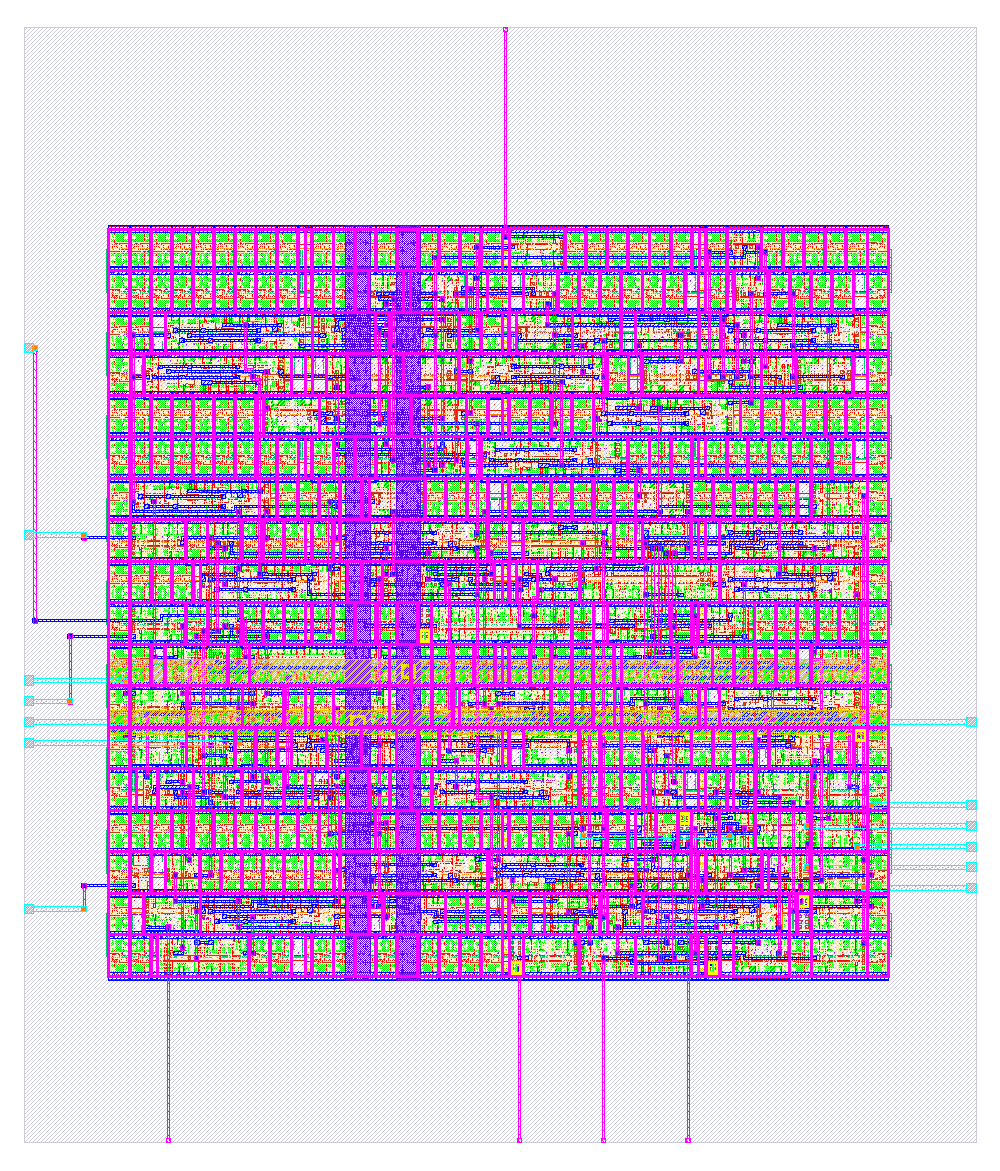
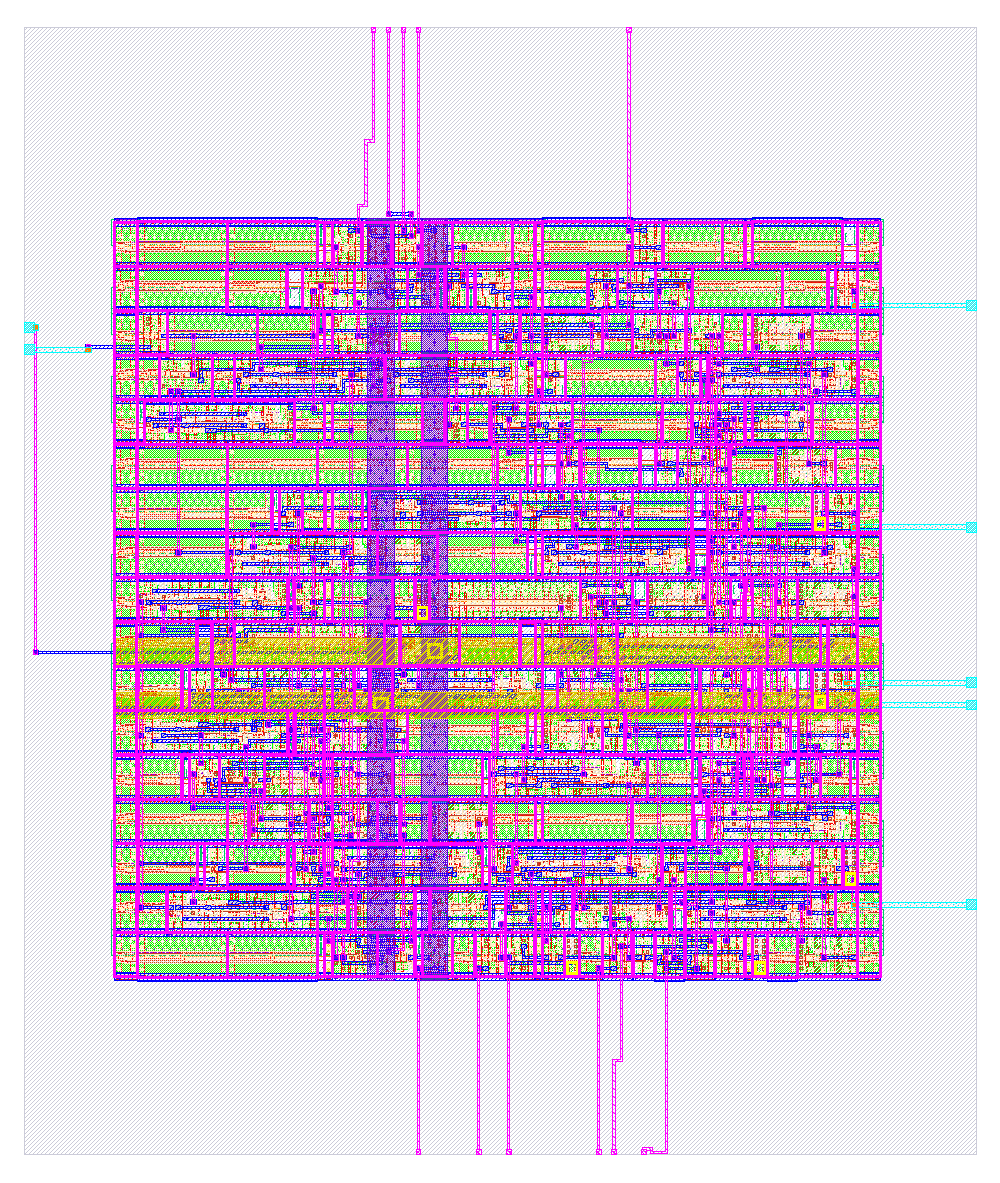
Lab 05: numbers from solutions/elevator.sv, and Part 8 arithmetic that adds up
Reran the lab on solutions/elevator.sv (skeleton numbers unchanged:
43 cells, 382.87 µm², 7 flops, 46.08 %):

- make synth: 80 cells, 766.99 µm², 17 flops, 55.63 % (was 76, 765.73,
  55.72 %). -nofsm: 80 cells, 754.47 µm², 15 flops, so two fewer flops
  and two more gates for a 1.6 % smaller design (was 79 / 756.98 / five
  more gates / 1.1 %). The RTL view is still 6503 x 1566 pt; the gate
  view is 883 x 9455 pt (was 9018), also quoted in Lab 02.
- make harden TAG=v1, 80 stages: 58.31 x 69.03 µm die (4025.14 µm²),
  core 2169.58, setup +12.39 ns, hold +0.128 ns, wirelength 1816,
  159 standard-cell instances, 325 instances in all, GDS 406,588 bytes
  (397 KB), run directory about 90 MB. All signoff counts are still 0.
  The render in docs/assets/img is replaced with this run's.
- Part 8's first question now adds up: 159 - 80 = 79 = 28 taps + 4
  clock-tree cells + 40 timing-repair buffers (5 input + 11 output +
  3 slew/fanout + 21 hold) + 6 diodes, plus one cell because LibreLane's
  own Yosys run builds 81 cells where make synth builds 80 (its
  stat.rpt says so). The log excerpt shows the lines those counts come
  from, and the timing-repair figure is the metrics.json class count
  (40 cells, 314.05 µm²) rather than an unexplained 32. The cell table
  is recounted from final/nl/elevator.nl.v.
- Setup answer: about 7.6 ns, roughly 130 MHz.

The 59 s / 525 MB wall-clock figure came from a different netlist on a
[…]

diff --git a/docs/labs/lab-05-elevator-overview.md b/docs/labs/lab-05-elevator-overview.md
@@ -18,7 +18,7 @@ Package: [`labs/lab-05-elevator/`](https://github.com/uoftasic/dd103/tree/main/l
   [From netlist to layout](../guide/from-gates-to-geometry.md).
 - Check your versions: `yosys -V` should say `Yosys 0.68` and `librelane --version` should say
   `LibreLane v3.1.0.dev3`.
-- Each LibreLane run directory is about 65 MB, so budget a few hundred megabytes of disk and
+- Each LibreLane run directory is about 90 MB, so budget a few hundred megabytes of disk and
   delete the run tags you no longer need.
 
 Start in the package directory:
@@ -295,13 +295,13 @@ What did the call queue, the timer and two more states cost in silicon?
    ```
    === elevator ===
 
-          76  765.734 cells
+          80  766.986 cells
            ...
           16  400.384   sky130_fd_sc_hd__dfrtp_1
            1   26.275   sky130_fd_sc_hd__dfstp_2
            ...
-      Chip area for module '\elevator': 765.734400
-        of which used for sequential elements: 426.659200 (55.72%)
+      Chip area for module '\elevator': 766.985600
+        of which used for sequential elements: 426.659200 (55.63%)
    ```
 
 3. Compare with the skeleton's numbers below. (If you want to reproduce them, run the Yosys
@@ -309,10 +309,10 @@ What did the call queue, the timer and two more states cost in silicon?
 
 | | Skeleton (3 states) | Finished (5 states) |
 |---|---|---|
-| cells | 43 | 76 |
-| area | 382.87 µm² | 765.73 µm² |
+| cells | 43 | 80 |
+| area | 382.87 µm² | 766.99 µm² |
 | flip-flops | 7 | 17 |
-| sequential share | 46.08 % | 55.72 % |
+| sequential share | 46.08 % | 55.63 % |
 
 You should see that the finished design is roughly twice the size of the skeleton. Where did the
 ten extra flip-flops come from?
@@ -325,7 +325,7 @@ machine: Yosys makes the state register one-hot, with one bit per state, and you
 states to five. With `-nofsm`, which leaves the 3-bit state register alone (see Going further),
 the finished design has 15.
 
-The seventeen flops are 22 % of the cells but 55.72 % of the area. A `dfrtp_1` costs 25.02 µm²
+The seventeen flops are 21 % of the cells but 55.63 % of the area. A `dfrtp_1` costs 25.02 µm²
 and a `nand2_1` costs 3.75, so the state is the expensive part of the design. That is why
 engineers argue about minimizing states, and you now have a number of your own to argue with.
 
@@ -342,8 +342,8 @@ Which diagram of the finished design is worth drawing?
 You should see a wide strip (6503 × 1566 pt for the finished design) with your names on the
 wires, and five register boxes, one for each of your five multi-bit state elements.
 
-Don't run `show` on the gate netlist. On this design it comes out 883 × 9018 pt, a vertical
-ribbon ten times taller than it is wide with 76 unlabelled boxes in it. The gate view in
+Don't run `show` on the gate netlist. On this design it comes out 883 × 9455 pt, a vertical
+ribbon ten times taller than it is wide with 80 unlabelled boxes in it. The gate view in
 [Lab 02](../labs/lab-02-rtl-becomes-gates-overview.md) was readable only because it was a two-cell
 full adder. Once a design this size is mapped to cells, the useful way to look at it is as a
 layout, which you'll do in Part 9.
@@ -403,11 +403,12 @@ There are three things in it to notice:
 
    [00:48:11] INFO     Saving views to '/work/runs/v1/final'…
    [00:48:11] INFO     Flow complete.
-   Classic - Stage 80 - Report Manufacturability ━━━━━━━━━━━━━━━━━━━━ 80/80 0:00:57
+   Classic - Stage 80 - Report Manufacturability ━━━━━━━━━━━━━━━━━━━━ 80/80 0:02:13
    ```
 
-   On a 6-core laptop with 7.5 GB of RAM this took 59 seconds of wall-clock time and peaked at
-   525 MB. If yours takes noticeably longer, that means your design got bigger, not that
+   Our run of the reference design, in a container limited to 2 CPUs and 3 GB of RAM, took
+   2 min 15 s of wall-clock time and peaked at 652 MB, so on a laptop with more cores yours
+   should be quicker. If it takes noticeably longer, that means your design got bigger, not that
    anything is broken.
 
    A dozen `WARNING` lines follow. They are normal, and
@@ -440,13 +441,13 @@ Is the chip clean, and what is on it besides your logic?
    ```
 
    ```
-   design__die__area                      4553.88
-   design__core__area                     2499.9
-   design__instance__utilization          0.550551
-   timing__setup__ws                      11.664674889496723
-   timing__hold__ws                       0.10763004681033471
-   route__wirelength                      1989
-   design__instance__count__stdcell       148
+   design__die__area                      4025.14
+   design__core__area                     2169.58
+   design__instance__utilization          0.568051
+   timing__setup__ws                      12.392420773650056
+   timing__hold__ws                       0.12794571320118497
+   route__wirelength                      1816
+   design__instance__count__stdcell       159
    antenna__violating__nets               0
    magic__drc_error__count                0
    klayout__drc_error__count              0
@@ -486,63 +487,75 @@ Is the chip clean, and what is on it besides your logic?
 
 Three of the metrics need some explaining. Answer each question below from your own run.
 
-`design__instance__count__stdcell` is 148, where Yosys said 76. What are the other 72?
+`design__instance__count__stdcell` is 159, where Yosys said 80 in Part 5. What are the other 79?
 
 <details>
 <summary>Answer</summary>
 
-They are real cells that the flow added after synthesis: 30 well taps, a clock tree, hold-fix
-delay cells and antenna diodes. The table in the answer to the last of these three questions
-counts each kind, and the logs show what was inserted:
+Almost all of them are real cells that the flow added after synthesis: 28 well taps, a clock
+tree, timing-repair buffers and antenna diodes. The table in the answer to the last of these
+three questions counts each kind, and the logs show what was inserted:
 
 ```
+[INFO RSZ-0027] Inserted 5 sky130_fd_sc_hd__buf_2 input buffers.
+[INFO RSZ-0028] Inserted 11 sky130_fd_sc_hd__buf_2 output buffers.
+[INFO RSZ-0034] Found 1 slew violations.
+[INFO RSZ-0035] Found 1 fanout violations.
+[INFO RSZ-0038] Inserted 3 buffers in 2 nets.
 [INFO CTS-0018]     Created 3 clock buffers.
-[INFO RSZ-0046] Found 11 endpoints with hold violations.
-[INFO RSZ-0032] Inserted 14 hold buffers.
+[INFO CTS-0207]  Dummy loads inserted 1
+[INFO RSZ-0046] Found 15 endpoints with hold violations.
+[INFO RSZ-0032] Inserted 21 hold buffers.
 ```
 
-So the flow found eleven hold violations, none of which you wrote. A hold violation is data
+That makes 28 taps, 4 clock-tree cells, 40 timing-repair buffers (5 + 11 + 3 + 21) and 6
+diodes, 78 cells in all. The 79th was never added. LibreLane runs Yosys with its own synthesis
+script, and that run built 81 cells where `make synth` built 80, as
+`runs/v1/06-yosys-synthesis/reports/stat.rpt` shows.
+
+So the flow found fifteen hold violations, none of which you wrote. A hold violation is data
 arriving at a flip-flop too early: the previous stage was so fast that the new value overtook the
-clock edge. The fix is to slow the path down on purpose, which is why the layout
-contains 32 timing-repair buffers costing 320.31 µm². It's also why `timing__hold__ws` came out
-at +0.108 ns, only just positive, because positive by a small margin is what the resizer aims
-for.
+clock edge. The fix is to slow the path down on purpose, which is what the 21 hold buffers do.
+Together with the buffers on the inputs and outputs and the three that fixed the slew and fanout
+violations, they are the 40 timing-repair buffers in `metrics.json`, and they cost 314.05 µm².
+The hold fix is also why `timing__hold__ws` came out at +0.128 ns, only just positive, because
+positive by a small margin is what the resizer aims for.
 
 </details>
 
-`timing__setup__ws` is +11.66 ns on a 20 ns clock. Roughly how fast could this elevator run?
+`timing__setup__ws` is +12.39 ns on a 20 ns clock. Roughly how fast could this elevator run?
 
 <details>
 <summary>Answer</summary>
 
-Your longest path takes about 8.3 ns (20 − 11.66), so this elevator would run at roughly
-120 MHz. That leaves 11.66 ns of headroom it isn't using, which you could spend on more floors or
+Your longest path takes about 7.6 ns (20 − 12.39), so this elevator would run at roughly
+130 MHz. That leaves 12.39 ns of headroom it isn't using, which you could spend on more floors or
 a smarter scheduler.
 
 </details>
 
-The finished layout contains 481 physical cells, and `metrics.json` counts 148 of them as
-standard-cell instances. How many of the 481 compute anything?
+The finished layout contains 325 physical cells, and `metrics.json` counts 159 of them as
+standard-cell instances. How many of the 325 compute anything?
 
 <details>
 <summary>Answer</summary>
 
-Only 118 of the 148 do:
+Only 131 of the 159 do:
 
 | | count | what it is |
 |---|---|---|
-| `decap` | 265 | decoupling capacitors, which store charge locally for the power rails |
-| `fill` | 68 | nothing at all; filler that keeps the rows continuous |
-| `tapvpwrvgnd` | 30 | well taps, which tie the substrate to the rails |
+| `decap` | 114 | decoupling capacitors, which store charge locally for the power rails |
+| `fill` | 52 | nothing at all; filler that keeps the rows continuous |
+| `tapvpwrvgnd` | 28 | well taps, which tie the substrate to the rails |
 | `dfrtp` / `dfstp` | 17 | your flip-flops |
-| `clkdlybuf` / `dlygate` / `clkbuf` / `buf` | 37 | the clock tree and hold repair |
+| `clkdlybuf` / `dlygate` / `clkbuf` / `buf` | 45 | the clock tree and timing repair, plus one buffer from synthesis |
 | `diode` | 6 | antenna protection |
-| everything else | 58 | your logic |
+| everything else | 63 | your logic |
 
-Decap, fill and taps account for 363 of the 481, so more than two thirds of the cells in your
-chip are there to make the silicon manufacturable rather than to make the elevator work. That is
-normal. It is also why an area number from `stat` always underestimates the rectangle you end up
-paying for: 765.73 µm² of cells landed in a 4553.88 µm² die.
+Decap, fill and taps account for 194 of the 325, so more than half of the cells in your chip are
+there to make the silicon manufacturable rather than to make the elevator work. That is normal.
+It is also why an area number from `stat` always underestimates the rectangle you end up paying
+for: 766.99 µm² of cells landed in a 4025.14 µm² die.
 
 </details>
 
@@ -566,15 +579,15 @@ the layout to an image for you, so you don't need a screenshot or an X server.
    ```
 
    ```
-   -rw-r--r-- 1 designer designers 420588 ... runs/v1/final/gds/elevator.gds
+   -rw-r--r-- 1 designer designers 406588 ... runs/v1/final/gds/elevator.gds
    ```
 
-You should see a rectangle 62.335 × 73.055 µm: rows of standard cells, magenta power straps
+You should see a rectangle 58.31 × 69.03 µm: rows of standard cells, magenta power straps
 running vertically, a thicket of routing, and pins on the edges. If you zoom in far enough you
 can make out the individual cells. A human hair is 60–80 µm across, so your entire elevator
 controller is narrower than one hair.
 
-The 411 KB GDS file is the deliverable. It holds the polygons, layer by layer, that a foundry
+The 397 KB GDS file is the deliverable. It holds the polygons, layer by layer, that a foundry
 would use to make masks. Everything else in `final/`
 (`def/ lef/ lib/ nl/ sdc/ sdf/ spef/ spice/ vh/`) is the paperwork that goes with it: the
 netlist someone else would simulate, the timing
@@ -595,15 +608,15 @@ Fill in this table from your own run, so that you have a record of it:
 |---|---|---|
 | `make sim` result | | `ALL CHECKS PASSED` |
 | `verilator --lint-only -Wall` exit code | | 0 |
-| cells / area from `make synth` | | 76 / 765.73 µm² |
-| flip-flops, and their share of the area | | 17 / 55.72 % |
-| die area | | 4553.88 µm² |
-| die size in µm | | 62.335 × 73.055 |
-| setup worst slack | | +11.66 ns |
-| hold worst slack | | +0.108 ns |
+| cells / area from `make synth` | | 80 / 766.99 µm² |
+| flip-flops, and their share of the area | | 17 / 55.63 % |
+| die area | | 4025.14 µm² |
+| die size in µm | | 58.31 × 69.03 |
+| setup worst slack | | +12.39 ns |
+| hold worst slack | | +0.128 ns |
 | DRC (magic), DRC (klayout), LVS, antenna | | 0, 0, 0, 0 |
-| wall-clock time for `make harden` | | 59 s |
-| `runs/<tag>/final/gds/elevator.gds` exists | | 420,588 bytes |
+| wall-clock time for `make harden` | | 2 min 15 s (2 CPUs) |
+| `runs/<tag>/final/gds/elevator.gds` exists | | 406,588 bytes |
 
 If your cells and area are within about 20 % of ours, you built the same kind of thing we did.
 Once all eight of your own checks pass, compare your design with the
@@ -644,20 +657,20 @@ Nothing to submit. Do keep two files from this lab, though: `elevator.sv` and
   Implement it, re-run `make sim` (the eight checks still pass, since SCAN is a superset), and see
   what it costs in cells.
 - Let the tool re-encode, or stop it. `synth -top elevator -nofsm` leaves your 3-bit state
-  register alone instead of making it one-hot, and gives 79 cells, 756.98 µm² and 15 flip-flops
-  against the default's 76 / 765.73 / 17. That is two fewer flops and five more gates, for a
-  design 1.1 % smaller. On this design the choice between binary and one-hot is worth almost
+  register alone instead of making it one-hot, and gives 80 cells, 754.47 µm² and 15 flip-flops
+  against the default's 80 / 766.99 / 17. That is two fewer flops and two more gates, for a
+  design 1.6 % smaller. On this design the choice between binary and one-hot is worth almost
   nothing, and that's more useful to know than either side of the argument.
 - Push the clock. Set `"CLOCK_PERIOD": 4.0` in `config.json` and harden again with a new tag.
-  You have 11.66 ns of slack to spend, so find out where it runs out, and read
+  You have 12.39 ns of slack to spend, so find out where it runs out, and read
   `runs/<tag>/56-openroad-stapostpnr/` for the path that failed first.
-- Grow it: add eight floors, a door-obstruction input, or an overload sensor. The flow handled 76
-  cells in 59 seconds, but detailed routing time grows steeply with design size, so keep it under
-  a few thousand cells and re-check the wall-clock time as you go.
+- Grow it: add eight floors, a door-obstruction input, or an overload sensor. The flow handled 80
+  cells in 2 min 15 s on 2 CPUs, but detailed routing time grows steeply with design size, so keep
+  it under a few thousand cells and re-check the wall-clock time as you go.
 - Compare with someone else. Two people who both passed all eight checks will still have different
   cell counts, die sizes and slack, so work out together which of your design decisions caused
   the biggest gap.
 
 Next on the [Course path](../index.md#course-path): this was the last row, and the end of DD103.
 [DD104: Pre-Silicon Verification](https://uoftasic.com/dd104/) opens by putting your numbers next to
-an 8-bit CPU's, a few thousand cells against your 76, and asking you to find the bugs in it.
+an 8-bit CPU's, a few thousand cells against your 80, and asking you to find the bugs in it.

diff --git a/labs/lab-05-elevator/README.md b/labs/lab-05-elevator/README.md
@@ -23,7 +23,7 @@ make sim
 | `make sim` | `iverilog` + `vvp`, six checks; the skeleton fails three of them on purpose |
 | `make synth` | Yosys → SKY130 cells, and the `stat` receipt |
 | `make show` | the RTL diagram, `results/elevator_rtl.svg` (not the gate diagram) |
-| `make harden TAG=v1` | `librelane config.json` → GDSII, about 1 min |
+| `make harden TAG=v1` | `librelane config.json` → GDSII, about 2 min |
 | `make metrics TAG=v1` | the numbers to write down, from `runs/<tag>/final/metrics.json` |
 | `make view` | open the last run in KLayout (noVNC desktop only) |
 | `make clean` | delete `results/`, keep `runs/` |
@@ -59,19 +59,20 @@ TODO(2) marks the state you add to hold the doors open while the timer runs.
 | `Makefile` | `lint` `sim` `synth` `show` `harden` `metrics` `view` `clean` `distclean` |
 | `solutions/elevator.sv` | A complete 5-state reference. Don't open it first. |
 | `results/` | Logs, VCD, netlist, SVG. Gitignored except `.gitkeep`. |
-| `runs/` | LibreLane run directories, about 65 MB each. Gitignored. |
+| `runs/` | LibreLane run directories, about 90 MB each. Gitignored. |
 
 ## Reference numbers
 
-These are from the reference implementation on `hpretl/iic-osic-tools:2026.08`, on a machine with
-6 cores and 7.5 GB:
+These are from the skeleton and the reference implementation, `solutions/elevator.sv`, on
+`hpretl/iic-osic-tools:2026.08`:
 
 | | Skeleton | Finished |
 |---|---|---|
-| `yosys` cells / area | 43 / 382.87 µm² | 76 / 765.73 µm² |
+| `yosys` cells / area | 43 / 382.87 µm² | 80 / 766.99 µm² |
 | flip-flops | 7 | 17 |
-| sequential share of area | 46.08 % | 55.72 % |
+| sequential share of area | 46.08 % | 55.63 % |
 
-The LibreLane `Classic` flow runs 80 stages in 59 s of wall-clock time, with a peak RSS of 525 MB.
-It produces a 62.335 × 73.055 µm die (4553.88 µm²) with +11.66 ns of setup slack on a 20 ns clock,
-and the DRC, LVS and antenna checks all report 0.
+The LibreLane `Classic` flow runs 80 stages. In a container limited to 2 CPUs and 3 GB it took
+2 min 15 s of wall-clock time, with a peak RSS of 652 MB. It produces a 58.31 × 69.03 µm die
+(4025.14 µm²) with +12.39 ns of setup slack and +0.128 ns of hold slack on a 20 ns clock, and the
+DRC, LVS and antenna checks all report 0.

diff --git a/docs/labs/lab-02-rtl-becomes-gates-overview.md b/docs/labs/lab-02-rtl-becomes-gates-overview.md
@@ -199,8 +199,8 @@ You should see that the gate view grew 52× in canvas area going from one adder 
 the RTL view stayed readable.
 
 For the rest of the course, draw the gate view of one small block only, and the RTL view of
-anything bigger. The elevator FSM in [Lab 05](../labs/lab-05-elevator-overview.md) is 76 cells, and
-its gate view comes out 883 × 9018 pt, so you'll draw its RTL instead. Experience doesn't make
+anything bigger. The elevator FSM in [Lab 05](../labs/lab-05-elevator-overview.md) is 80 cells, and
+its gate view comes out 883 × 9455 pt, so you'll draw its RTL instead. Experience doesn't make
 this limit go away, and it's the reason professional flows show you numbers and layouts rather
 than gate schematics.
 
